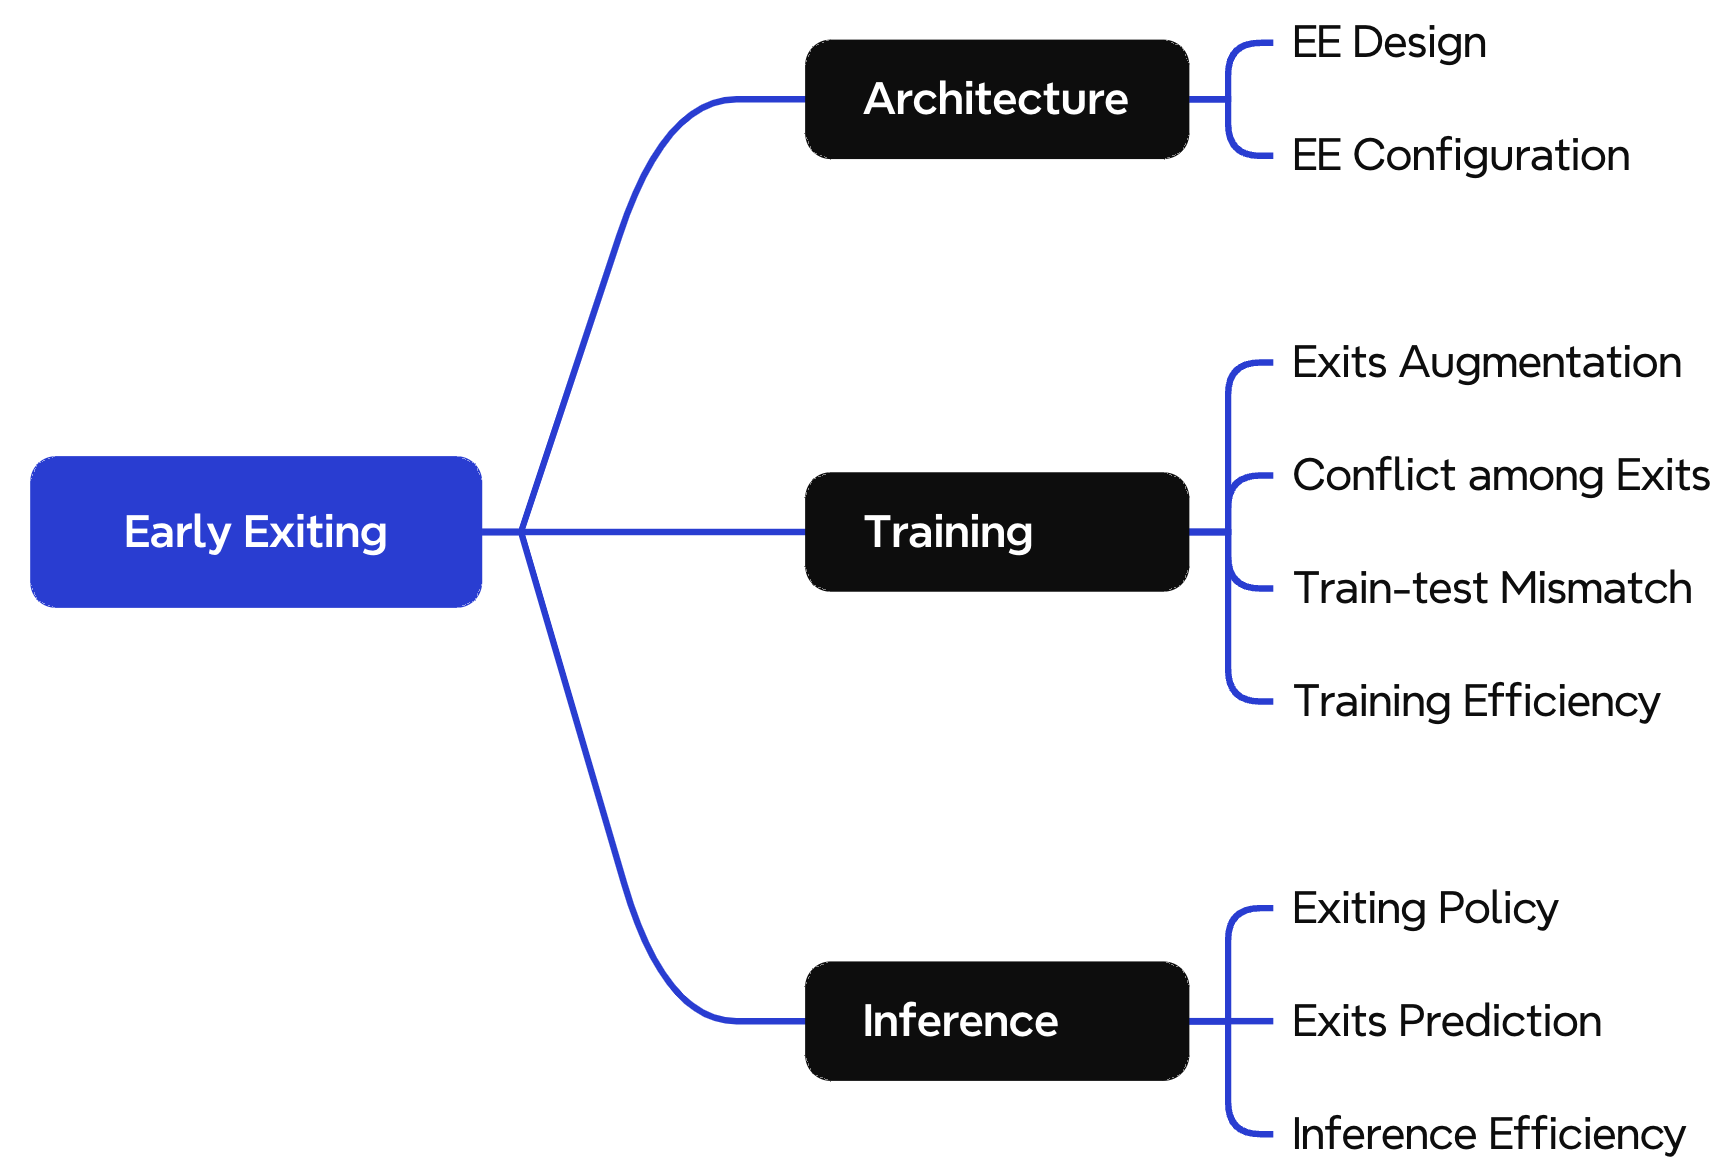
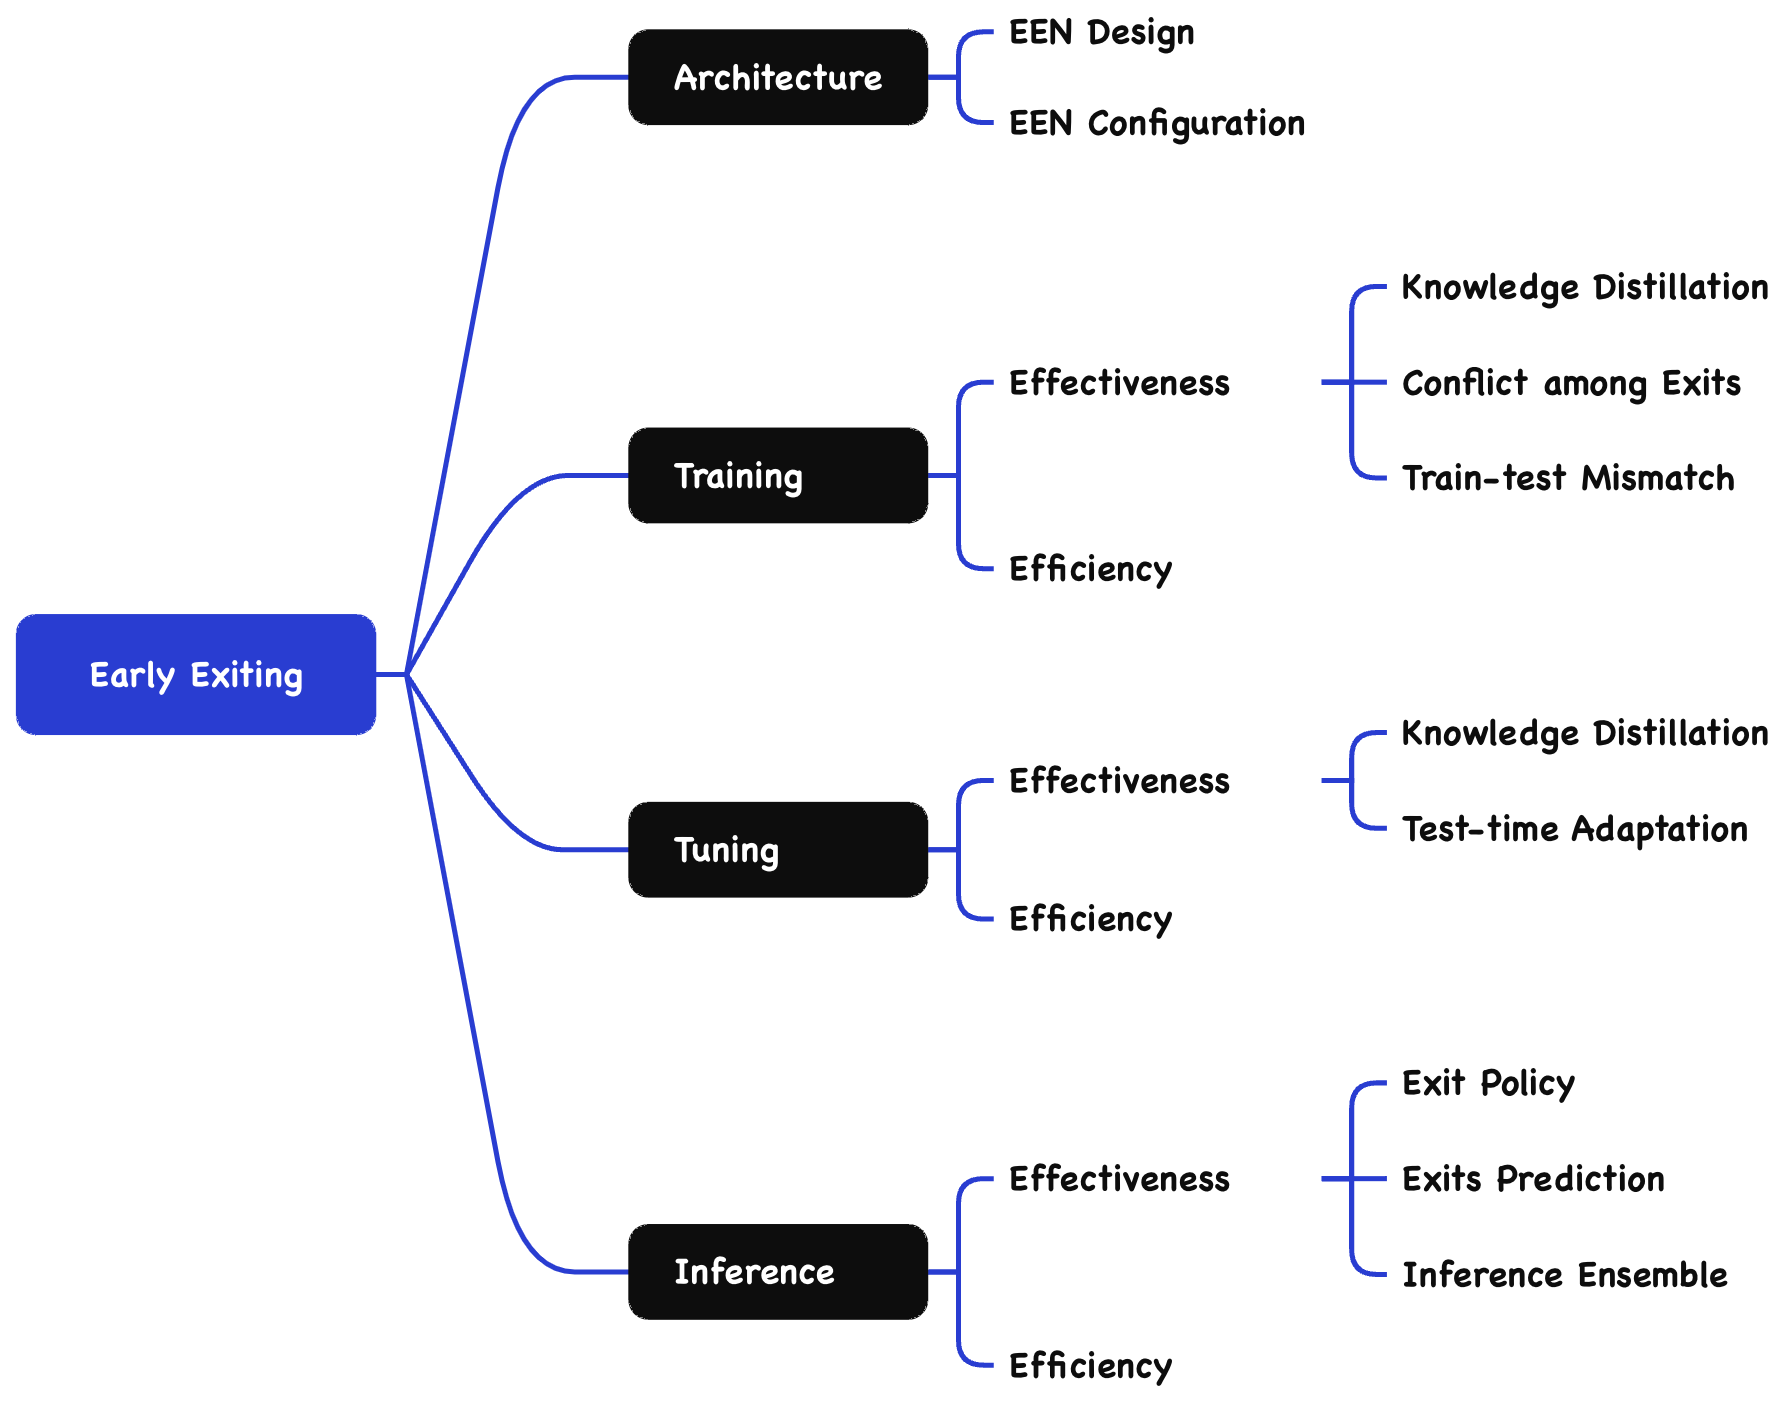
20241009

diff --git a/README.md b/README.md
@@ -1,16 +1,18 @@
-# Awesome-Early-Exiting-Dynamic-Neural-Network
-A paper list for early-exiting dynamic neural networks (EDNN).
+# Awesome-Early-Exiting-Neural-Network
+
+A paper list for early-exiting neural networks (ENN).
 
 The idea of early exiting is firsly proposed in *ICPR16-BranchyNet: Fast Inference via Early Exiting from Deep Neural Networks*.
 
-EDNN inserts **intermediate classifiers** at various network depths, allows the **early termination** of inference for simple inputs with high-confidence predictions and encourages **efficient inference**.
+ENN inserts **intermediate classifiers** at various network depths, allows the **early termination** of inference for simple inputs with high-confidence predictions and encourages **efficient inference**.
 
-EDNN is also named multi-exit NN in some papers.
+ENN is also named multi-exit NN in some papers.
 
-We categorized EDNN into three types and collected corresponding papers.
+We categorized ENN into four types and collected corresponding papers.
 
 + **Architecture**
 + **Training**
++ **Tuning**
 + **Inference**
 
 A detailed mindmap of paper collected is illustrated as follow
@@ -27,30 +29,34 @@ A detailed mindmap of paper collected is illustrated as follow
 ### Survey
 | Title | Abbreviation | Venue | Year | Materials |
 |----------|----|----|----|----|
+| Dynamic Neural Network Structure: A Review for Its Theories and Applications | N/A | TNNLS | 2024 | [[PAGE](https://ieeexplore.ieee.org/abstract/document/10492471)] |
+| Dynamic neural networks: A survey | N/A | TPAMI | 2022 | [[PAGE](https://ieeexplore.ieee.org/abstract/document/9560049)] [[PDF](https://arxiv.org/pdf/2102.04906)] |
 | Split computing and early exiting for deep learning applications: Survey and research challenges | N/A | CSUR | 2022 | [[PAGE](https://dl.acm.org/doi/full/10.1145/3527155)] [[PDF](https://dl.acm.org/doi/pdf/10.1145/3527155)] |
-| Dynamic neural networks: A survey | N/A | TPAMI | 2021 | [[PAGE](https://ieeexplore.ieee.org/abstract/document/9560049)] [[PDF](https://arxiv.org/pdf/2102.04906)] |
 | Adaptive inference through early-exit networks: Design, challenges and directions | N/A | EMDL@MobiSys | 2021 | [[PAGE](https://dl.acm.org/doi/abs/10.1145/3469116.3470012)] [[PDF](https://arxiv.org/pdf/2106.05022)] |
 
 ## 1. Architecture
-### EE Design
+### EEN Design
 | Title | Abbreviation | Venue | Year | Materials |
 |----------|----|----|----|----|
+| Unlocking the Non-deterministic Computing Power with Memory-Elastic Multi-Exit Neural Networks | MEEdge | WWW | 2024 | [[PAGE](https://dl.acm.org/doi/abs/10.1145/3589334.3645340)] |
 | Multi-Scale Dense Networks for Resource Efficient Image Classification | MSDNet | ICLR | 2018 | [[PDF](https://arxiv.org/pdf/1703.09844)] |
 
-### EE Configuration
+### EEN Configuration
 | Title | Abbreviation | Venue | Year | Materials |
 |----------|----|----|----|----|
 | SLEXNet: Adaptive Inference Using Slimmable Early Exit Neural Networks | SLEXNet | TECS | 2024 | [[PAGE](https://dl.acm.org/doi/full/10.1145/3689632)] [[PDF](https://dl.acm.org/doi/pdf/10.1145/3689632)] |
 | HADAS: Hardware-Aware Dynamic Neural Architecture Search for Edge Performance Scaling | HADAS | DATE | 2023 | [[PAGE](https://ieeexplore.ieee.org/abstract/document/10137095)] |
+| Multi-Exit Semantic Segmentation Networks | MESS | ECCV | 2022 | [[PAGE](https://link.springer.com/chapter/10.1007/978-3-031-19803-8_20)] |
 | Enabling Low Latency Edge Intelligence based on Multi-exit DNNs in the Wild | ME-DNN | ICDCS | 2021 | [[PAGE](https://ieeexplore.ieee.org/abstract/document/9546491)] |
+| HAPI: Hardware-Aware Progressive Inference | HAPI | ICCAD | 2020 | [[PAGE](https://dl.acm.org/doi/abs/10.1145/3400302.3415698)] |
+| FlexDNN: Input-Adaptive On-Device Deep Learning for Efficient Mobile Vision | FlexDNN | SEC | 2020 | [[PAGE](https://ieeexplore.ieee.org/abstract/document/9355785)] |
 
 ## 2. Training
-### Exits Augmentation
+### KD for Training
 | Title | Abbreviation | Venue | Year | Materials |
 |----------|----|----|----|----|
-| Harmornized Dense Knowledge Distiilation Training for Multi-Exit Architecture | HDKD |  | 2021 | [[PAGE](https://ojs.aaai.org/index.php/AAAI/article/view/17225)] [[PDF](https://ojs.aaai.org/index.php/AAAI/article/view/17225/17032)] |
-| GAML-BERT: Improving BERT Early Exiting by Gradient Aligned Mutual Learning | GAML-BERT | EMNLP | 2021 | [[PAGE](https://aclanthology.org/2021.emnlp-main.242/)] [[PDF](https://aclanthology.org/2021.emnlp-main.242.pdf)] |
-| DeeBERT: Dynamic Early Exiting for Accelerating BERT Inference | DeeBERT | ACL | 2020 | [[PAGE](https://aclanthology.org/2020.acl-main.204/)] [[PDF](https://aclanthology.org/2020.acl-main.204.pdf)] |
+| Unlocking the Non-deterministic Computing Power with Memory-Elastic Multi-Exit Neural Networks | MEEdge | WWW | 2024 | [[PAGE](https://dl.acm.org/doi/abs/10.1145/3589334.3645340)] |
+| Harmornized Dense Knowledge Distiilation Training for Multi-Exit Architecture | HDKD | AAAI | 2021 | [[PAGE](https://ojs.aaai.org/index.php/AAAI/article/view/17225)] [[PDF](https://ojs.aaai.org/index.php/AAAI/article/view/17225/17032)] |
 | Distillation-Based Training for Multi-Exit Architectures | N/A | ICCV | 2019 | [[PAGE](https://openaccess.thecvf.com/content_ICCV_2019/html/Phuong_Distillation-Based_Training_for_Multi-Exit_Architectures_ICCV_2019_paper.html)] [[PDF](https://openaccess.thecvf.com/content_ICCV_2019/papers/Phuong_Distillation-Based_Training_for_Multi-Exit_Architectures_ICCV_2019_paper.pdf)] |
 
 ### Conflict among Exits
@@ -72,11 +78,30 @@ A detailed mindmap of paper collected is illustrated as follow
 | Hierarchical Training of Deep Neural Networks Using Early Exiting | N/A | TNNLS | 2024 | [[PAGE](https://ieeexplore.ieee.org/abstract/document/10530344)] |
 | EE-LLM: Large-Scale Training and Inference of Early-Exit Large Language Models with 3D Parallelism | EE-LLM | ICML | 2024 | [[PAGE](https://openreview.net/forum?id=xFk0w9zoV3)] [[PDF](https://openreview.net/pdf?id=xFk0w9zoV3)] [[CODE](https://github.com/pan-x-c/EE-LLM)] |
 
-## 3. Inference
+## 3. Tuning
+### KD for Tuning
+| Title | Abbreviation | Venue | Year | Materials |
+|----------|----|----|----|----|
+| GAML-BERT: Improving BERT Early Exiting by Gradient Aligned Mutual Learning | GAML-BERT | EMNLP | 2021 | [[PAGE](https://aclanthology.org/2021.emnlp-main.242/)] [[PDF](https://aclanthology.org/2021.emnlp-main.242.pdf)] |
+| DeeBERT: Dynamic Early Exiting for Accelerating BERT Inference | DeeBERT | ACL | 2020 | [[PAGE](https://aclanthology.org/2020.acl-main.204/)] [[PDF](https://aclanthology.org/2020.acl-main.204.pdf)] |
+| FastBERT: a Self-distilling BERT with Adaptive Inference Time | FastBERT | ACL | 2020 | [[PAGE](https://aclanthology.org/2020.acl-main.537/)] |
+
+### Test-time Adaptation
+| Title | Abbreviation | Venue | Year | Materials |
+|----------|----|----|----|----|
+| Test-time Specialization of Dynamic Neural Networks | N/A | CVPR Workshop | 2024 | [[PAGE](https://openaccess.thecvf.com/content/CVPR2024W/MAT/html/Leroux_Test-time_Specialization_of_Dynamic_Neural_Networks_CVPRW_2024_paper.html)] [[PDF](https://openaccess.thecvf.com/content/CVPR2024W/MAT/papers/Leroux_Test-time_Specialization_of_Dynamic_Neural_Networks_CVPRW_2024_paper.pdf)] |
+
+### Tuning Efficiency
+| Title | Abbreviation | Venue | Year | Materials |
+|----------|----|----|----|----|
+| EE-Tuning: An Economical yet Scalable Solution for Tuning Early-Exit Large Language Models | N/A | arXiv | 2024 | [[PDF](https://arxiv.org/pdf/2402.00518)] |
+
+## 4. Inference
 ### Exit Policy
 | Title | Abbreviation | Venue | Year | Materials |
 |----------|----|----|----|----|
 | Elastic DNN Inference with Unpredictable Exit in Edge Computing | EINet | TMC | 2024 | [[PAGE](https://ieeexplore.ieee.org/abstract/document/10633848)] |
+| Scheduling Inputs in Early Exit Neural Networks | N/A | TC | 2023 | [[PAGE](https://ieeexplore.ieee.org/abstract/document/10324303)] |
 | FrameExit: Conditional Early Exiting for Efﬁcient Video Recognition | FrameExit | CVPR | 2021 | [[PAGE](https://openaccess.thecvf.com/content/CVPR2021/html/Ghodrati_FrameExit_Conditional_Early_Exiting_for_Efficient_Video_Recognition_CVPR_2021_paper.html)] [[PDF](https://openaccess.thecvf.com/content/CVPR2021/papers/Ghodrati_FrameExit_Conditional_Early_Exiting_for_Efficient_Video_Recognition_CVPR_2021_paper.pdf)] |
 | Empowering Adaptive Early-Exit Inference with Latency Awareness | N/A | AAAI | 2021 | [[PAGE](https://ojs.aaai.org/index.php/AAAI/article/view/17181)] |
 | Shallow-Deep Networks: Understanding and Mitigating Network Overthinking | SDN | ICML | 2019 | [[PAGE](https://proceedings.mlr.press/v97/kaya19a.html)] [[PDF](https://proceedings.mlr.press/v97/kaya19a/kaya19a.pdf)] |
@@ -88,22 +113,27 @@ A detailed mindmap of paper collected is illustrated as follow
 | Predictive Exit: Prediction of Fine-Grained Early Exits for Computation- and Energy-Efficient Inference | N/A | AAAI | 2023 | [[PAGE](https://ojs.aaai.org/index.php/AAAI/article/view/26042)] |
 | FIANCEE: Faster Inference of Adversarial Networks via Conditional Early Exits | FIANCEE | CVPR | 2023 | [[PAGE](https://openaccess.thecvf.com/content/CVPR2023/html/Karpikova_FIANCEE_Faster_Inference_of_Adversarial_Networks_via_Conditional_Early_Exits_CVPR_2023_paper.html)] [[PDF](https://openaccess.thecvf.com/content/CVPR2023/papers/Karpikova_FIANCEE_Faster_Inference_of_Adversarial_Networks_via_Conditional_Early_Exits_CVPR_2023_paper.pdf)] |
 
+### Inference Ensemble
+| Title | Abbreviation | Venue | Year | Materials |
+|----------|----|----|----|----|
+| Boosted Dynamic Neural Networks | BoostNet | AAAI | 2023 | [[PAGE](https://ojs.aaai.org/index.php/AAAI/article/view/26302)] [[PDF](https://ojs.aaai.org/index.php/AAAI/article/view/26302/26074)] [[CODE](https://github.com/SHI-Labs/Boosted-Dynamic-Networks)] |
+| Towards Anytime Classification in Early-Exit Architectures by Enforcing Conditional Monotonicity | N/A | NIPS | 2023 | [[PAGE](https://proceedings.neurips.cc/paper_files/paper/2023/hash/af2d9fb5bcee19ef2dfa70d843520c97-Abstract-Conference.html)] [[PDF](https://proceedings.neurips.cc/paper_files/paper/2023/file/af2d9fb5bcee19ef2dfa70d843520c97-Paper-Conference.pdf)] |
+
 ### Inference Efficiency
 | Title | Abbreviation | Venue | Year | Materials |
 |----------|----|----|----|----|
 | Temporal Decisions: Leveraging Temporal Correlation for Efficient Decisions in Early Exit Neural Networks | N/A |  | 2024 | [[PAGE](https://arxiv.org/abs/2403.07958)] [[PDF](https://arxiv.org/pdf/2403.07958)] |
 | Unlocking the Non-deterministic Computing Power with Memory-Elastic Multi-Exit Neural Networks | MEEdge | WWW | 2024 | [[PAGE](https://dl.acm.org/doi/abs/10.1145/3589334.3645340)] |
 | EE-LLM: Large-Scale Training and Inference of Early-Exit Large Language Models with 3D Parallelism | EE-LLM | ICML | 2024 | [[PAGE](https://openreview.net/forum?id=xFk0w9zoV3)] [[PDF](https://openreview.net/pdf?id=xFk0w9zoV3)] [[CODE](https://github.com/pan-x-c/EE-LLM)] |
-| Scheduling Inputs in Early Exit Neural Networks | N/A | TC | 2023 | [[PAGE](https://ieeexplore.ieee.org/abstract/document/10324303)] |
 | ClassyNet: Class-Aware Early-Exit Neural Networks for Edge Devices | ClassyNet | IOTJ | 2023 | [[PAGE](https://ieeexplore.ieee.org/abstract/document/10365527)] |
 
-
+37 papers are included
 
 <!-- main-end -->
 
  <!-- update-time-start -->
 
-**Last Update: Sep 27, 2024 00:21:46**
+**Last Update: Oct 09, 2024 00:10:59**
 
 <!-- update-time-end -->
 
